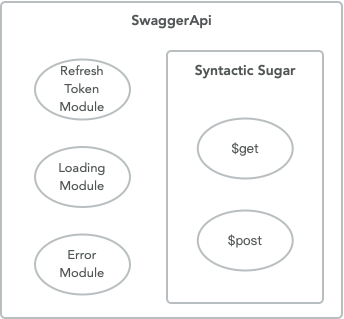
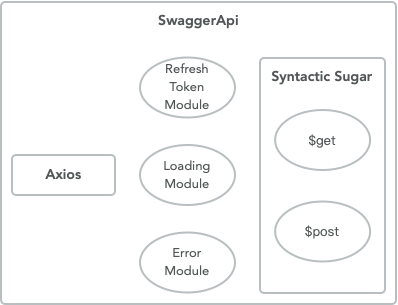
feat: add param codeKey; improve refresh logic

diff --git a/src/module/refresh-token.js b/src/module/refresh-token.js
@@ -2,16 +2,19 @@ import qs from 'qs';
 import { registerModule } from './utils';
 
 /**
+ * @param codeKey 返回数据code键名: 默认'code'
  * @param unauthorizedCode 未授权码: 默认401
  * @param maxTryTimes 最大重试次数
  * @param getRefreshToken 获取新token方法
  */
 const RefreshTokenModule = function(options = {}) {
   registerModule.call(this, 'RefreshTokenModule');
+  const codeKey = options.codeKey || 'code';
   const unauthorizedCode = options.unauthorizedCode || 401;
   const maxTryTimes = options.maxTryTimes || 1;
   const getRefreshToken = options.getRefreshToken || (async () => {
-    const isInApp = navigator.userAgent.includes('longfor');
+    const ua = navigator.userAgent;
+    const isInApp = ua.includes('iPhone') || ua.includes('Android');
     let token;
     if (isInApp) {
       token = await $native.getToken().catch(() => {});
@@ -25,15 +28,15 @@ const RefreshTokenModule = function(options = {}) {
   let isRefreshingToken = false;
   // 并发请求栈
   let concurrentRequestStack = [];
-  // 拦截器中通用代码 @param => response in then | error in catch
-  const refreshTokenHandler = async param => {
+  // 拦截器中通用代码
+  const refreshTokenHandler = async response => {
     // 超过最大重试次数 抛出异常 避免死循环
-    const config = param.config;
+    const { config } = response;
     if (config._tryTimes === undefined) {
       config._tryTimes = 0;
     }
     config._tryTimes++;
-    if (config._tryTimes > maxTryTimes) return Promise.reject(param);
+    if (config._tryTimes > maxTryTimes) return Promise.resolve(response);
 
     if (isRefreshingToken) {
       // 这里需要返回Promise链来保证栈里请求执行后完成闭环！
@@ -50,7 +53,9 @@ const RefreshTokenModule = function(options = {}) {
       isRefreshingToken = false;
       if (!token) {
         // 获取新token失败 直接抛出原异常
-        return Promise.reject(param);
+        // Q: 关于这里为什么用resolve而非reject？
+        // A: RefreshTokenModule只是单纯的重试机制模块 并不改变成功或失败状态 保证Promise链还是fulfilled 也方便后续ErrorModule统一判断
+        return Promise.resolve(response);
       } else {
         // update current request & instance's header's Authorization info
         config.headers.Authorization = `Bearer ${token}`;
@@ -70,19 +75,8 @@ const RefreshTokenModule = function(options = {}) {
   };
 
   this.interceptors.response.use(response => {
-    // 执行顺序早于ErrorModule的情况
-    if (response.data.code !== unauthorizedCode) return response;
-
-    // complement code & message if rejected
-    response.code = unauthorizedCode;
-    response.message = response.data.message;
-
+    if (response.data[codeKey] !== unauthorizedCode) return response;
     return refreshTokenHandler(response);
-  }, error => {
-    // 非授权失败错误 直接抛出原异常
-    // if (error.code !== unauthorizedCode) return Promise.reject(error);
-
-    return refreshTokenHandler(error);
   });
 
   return this;

diff --git a/src/module/error.js b/src/module/error.js
@@ -1,6 +1,8 @@
 import { noop, registerModule } from './utils';
 
 /**
+ * @param codeKey 返回数据code键名: 默认'code'
+ * @param codeValue 返回数据code键成功值: 默认200
  * @param unauthorizedCode 未授权码: 默认401
  * @param noPermissionCode 无权限码: 默认403
  * @param unauthorizedHandler 未授权处理方法 使用此方法时需要将RefreshTokenModule执行在ErrorModule之前
@@ -9,6 +11,8 @@ import { noop, registerModule } from './utils';
  */
 const ErrorModule = function(options = {}) {
   registerModule.call(this, 'ErrorModule');
+  const codeKey = options.codeKey || 'code';
+  const codeValue = Object.prototype.toString.call(options.codeValue) === '[object Number]' ? options.codeValue : 200; // fix value 0
   const unauthorizedCode = options.unauthorizedCode || 401;
   const noPermissionCode = options.noPermissionCode || 403;
   const unauthorizedHandler = options.unauthorizedHandler || noop;
@@ -16,12 +20,13 @@ const ErrorModule = function(options = {}) {
   const toastHandler = options.toastHandler;
   this.interceptors.response.use(response => {
     // 根据后端返回来处理
-    const { code, message } = response.data;
-    if (code === 200) {
+    const code = response.data[codeKey];
+    const message = response.data.message;
+    if (code === codeValue) {
       return response;
     } else {
-      if (code === unauthorizedCode && !this.defaults._moduleList.includes('RefreshTokenModule')) {
-        // 授权失败 unauthorizedHandler 不存在刷新token机制时才执行回调
+      if (code === unauthorizedCode) {
+        // 授权失败 unauthorizedHandler
         unauthorizedHandler();
       } else if (code === noPermissionCode) {
         // 无权限 noPermissionHandler
@@ -33,10 +38,6 @@ const ErrorModule = function(options = {}) {
     }
   }, error => {
     // 请求失败处理 axios.enhanceError
-    if (error.code === unauthorizedCode) {
-      // RefreshTokenModule需要注册在前 失败后执行授权失败回调
-      unauthorizedHandler();
-    }
     toastHandler && toastHandler(error.message);
     return Promise.reject(error);
   });

diff --git a/src/module/utils.js b/src/module/utils.js
@@ -2,8 +2,8 @@ export const noop = () => void 0;
 
 // 注册模块方法名到实例中 用于记录模块是否注册和注册顺序
 export function registerModule(moduleName) {
-  if (moduleName === 'RefreshTokenModule' && this.defaults._moduleList?.includes('ErrorModule')) {
-    console.warn('RefreshTokenModule needs to be registered before ErrorModule.');
+  if (moduleName !== 'ErrorModule' && this.defaults._moduleList?.includes('ErrorModule')) {
+    console.warn('any module needs to be registered before ErrorModule, otherwise module like RefreshTokenModule would be invalid!!!');
   }
   this.defaults._moduleList = [...(this.defaults._moduleList || []), moduleName];
 };

diff --git a/test/index.js b/test/index.js
@@ -3,7 +3,10 @@ import SwaggerApi, { RefreshTokenModule, LoadingModule, ErrorModule } from '../s
 const instance = SwaggerApi.create({
   baseURL: '/api'
 });
-instance.use(RefreshTokenModule).use(LoadingModule).use(ErrorModule);
+instance.use(RefreshTokenModule).use(LoadingModule).use(ErrorModule, {
+  codeKey: 'status',
+  codeValue: 0
+});
 
 document.getElementById('get').addEventListener('click', () => {
   instance.$get('/request').then(res => {

diff --git a/test/index.html b/test/index.html
@@ -10,6 +10,20 @@
     // var vConsole = new VConsole();
     // console.log('vConsole inited');
   </script>
+  <style type="text/css">
+    button {
+      padding: 8px 16px;
+      font-size: 14px;
+      background-color: #fff;
+      color: dodgerblue;
+      border: 1px solid currentColor;
+      border-radius: 4px;
+      cursor: pointer;
+    }
+    button:not(:first-child) {
+      margin-left: 8px;
+    }
+  </style>
 </head>
 
 <body>

diff --git a/src/module/loading.js b/src/module/loading.js
@@ -42,7 +42,7 @@ const LoadingModule = function(options = {}) {
 
   this.interceptors.response.use(response => {
     if (isShowLoading || response.config?.isShowLoading) {
-      tryShowLoading();
+      tryHideLoading();
     }
     return response;
   }, error => {

diff --git a/README.md b/README.md
@@ -1,5 +1,5 @@
 # SWAGGER-API
-通用swagger-api请求库 基于axios扩展  
+通用swagger-api请求库 基于axios扩展 使用此库后可以不用安装axios  
 ![](https://github.com/thjjames/swagger-api/blob/master/swagger-api.png?raw=true)
 
 ## 使用说明
@@ -7,7 +7,7 @@
 npm i -S @github.com:thjjames/swagger-api
 ```
 或  
-`package.json`中添加如下
+`package.json`中`dependencies`添加
 ```
 "swagger-api": "git@github.com:thjjames/swagger-api"
 ```
@@ -21,7 +21,7 @@ const swagger = new SwaggerApi({ // SwaggerApi.create suggested but not new keyw
 })
 swagger.use(RefreshTokenModule).use(ErrorModule)
 Vue.prototype.$swagger = swagger
-this.$get('/request').then(res => {})
+this.$swagger.$get('/request').then(res => {})
 ```
 
 ### 方法
@@ -38,7 +38,7 @@ const swagger = SwaggerApi.create({
 swagger.use(module, options)
 ```
 
-### module
+### 扩展模块
 
 #### refreshTokenModule
 ```js
@@ -51,9 +51,10 @@ swagger.use(RefreshTokenModule, {
 
 | 参数 | 说明 | 类型 | 默认值 |
 | --- | --- | --- | --- |
-| unauthorizedCode | 未授权码 | _string_ | `401` |
-| maxTryTimes | 最大重试次数 | _string_ | `1` |
-| getRefreshToken | 获取新token方法 | _function&lt;Promise&gt;_ | `内置业务获取方法` |
+| codeKey | 后端返回data数据中code键名 | _string_ | `code` |
+| unauthorizedCode | 未授权码 | _number_ | `401` |
+| maxTryTimes | 最大重试次数 | _number_ | `1` |
+| getRefreshToken | 获取新token方法 | _function&lt;Promise&gt;_ | `内置业务获取token方法` |
 
 #### loadingModule
 ```js
@@ -72,6 +73,7 @@ swagger.use(LoadingModule, {
 | hideLoadingHandler | 隐藏加载方法 | _function_ | - |
 
 #### errorModule
+> Tips: errorModule需要被注册在最后，否则会影响其他模块的使用！
 ```js
 import { ErrorModule } from 'swagger-api'
 swagger.use(ErrorModule, {
@@ -82,8 +84,10 @@ swagger.use(ErrorModule, {
 
 | 参数 | 说明 | 类型 | 默认值 |
 | --- | --- | --- | --- |
-| unauthorizedCode | 未授权码 | _string_ | `401` |
-| noPermissionCode | 无权限码 | _string_ | `403` |
+| codeKey | 后端返回data数据中code键名 | _string_ | `code` |
+| codeValue | 后端返回data数据中code成功值 | _number_ | `200` |
+| unauthorizedCode | 未授权码 | _number_ | `401` |
+| noPermissionCode | 无权限码 | _number_ | `403` |
 | unauthorizedHandler | 未授权处理方法，当ErrorModule注册在RefreshTokenModule之前时无效 | _function_ | - |
 | noPermissionHandler | 无权限处理方法 | _function_ | - |
 | toastHandler | 提示实例方法，可以不传，由业务触发 | _function_ | - |
